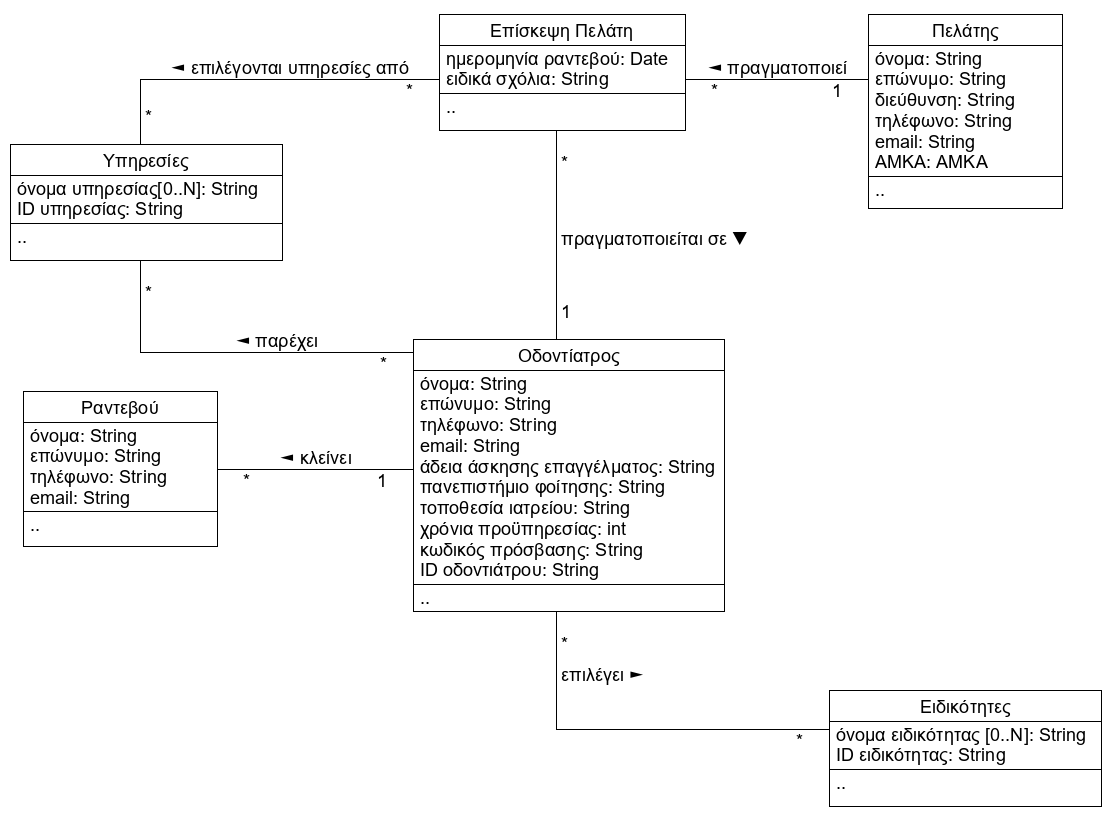
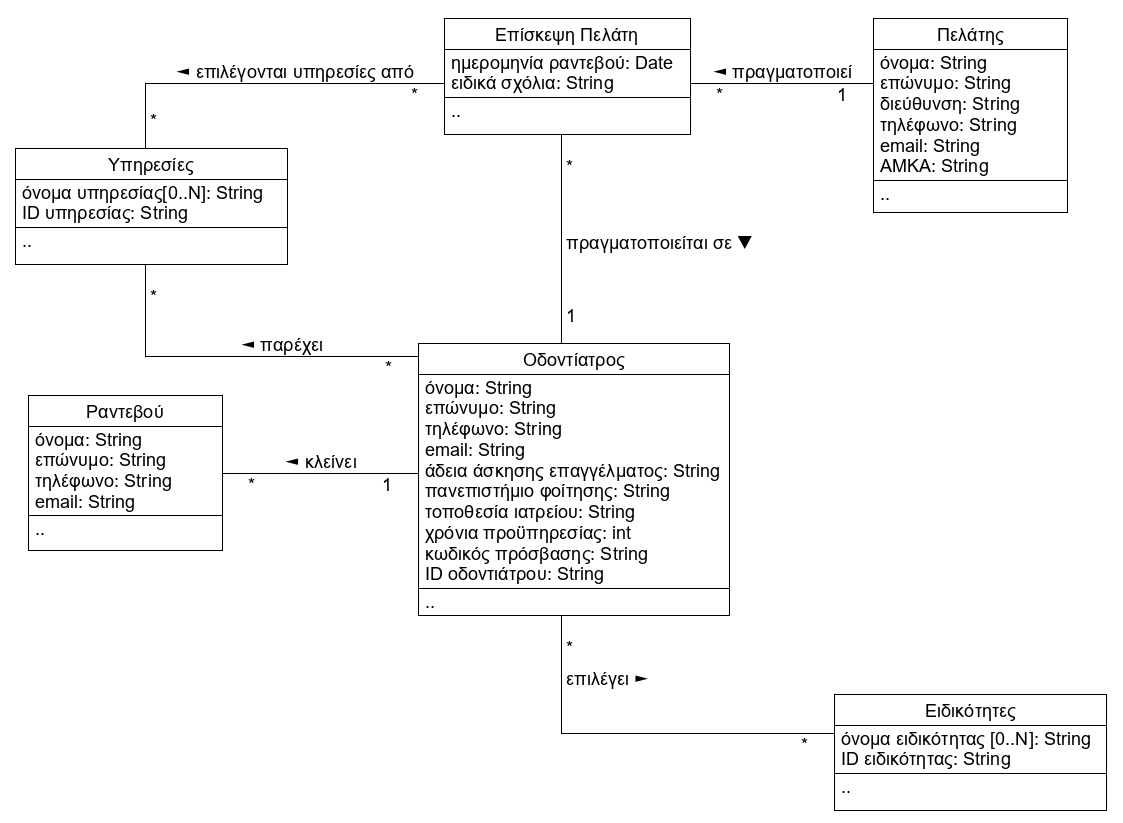
Created Android Studio Project

diff --git a/app/src/main/java/com/example/efarmoghgiaodontiatrous/Dentist.java b/app/src/main/java/com/example/efarmoghgiaodontiatrous/Dentist.java
@@ -4,15 +4,17 @@ import java.util.HashSet;
 import java.util.Set;
 
 public class Dentist {
-    private String firstName, lastName, telephoneNo, email, exerciseLicense, universityAttended, infirmaryLocation, password, dentistID;
+    private String firstName, lastName, telephoneNo, email, exerciseLicense, universityAttended, password, dentistID;
     private int timeOfExperience;
+    private Address infirmaryLocation;
     private Set<Specialization> specializations = new HashSet<>();
     private Set<Service> services = new HashSet<>();
+    private Set<Appointment> appointments = new HashSet<>();
 
     public Dentist() {
     }
 
-    public Dentist(String firstName, String lastName, String telephoneNo, String email, String exerciseLicense, String universityAttended, String infirmaryLocation, int timeOfExperience, String password, String dentistID) {
+    public Dentist(String firstName, String lastName, String telephoneNo, String email, String exerciseLicense, String universityAttended, Address infirmaryLocation, int timeOfExperience, String password, String dentistID) {
         this.firstName = firstName;
         this.lastName = lastName;
         this.telephoneNo = telephoneNo;
@@ -81,11 +83,11 @@ public class Dentist {
         this.universityAttended = universityAttended;
     }
 
-    public String getInfirmaryLocation() {
+    public Address getInfirmaryLocation() {
         return infirmaryLocation;
     }
 
-    public void setInfirmaryLocation(String infirmaryLocation) {
+    public void setInfirmaryLocation(Address infirmaryLocation) {
         this.infirmaryLocation = infirmaryLocation;
     }
 
@@ -113,6 +115,10 @@ public class Dentist {
         return new HashSet<>(services);
     }
 
+    public Set<Appointment> getAppointments() {
+        return new HashSet<>(appointments);
+    }
+
     public void addService(Service service) {
         if (service != null) {
             this.services.add(service);
@@ -134,6 +140,18 @@ public class Dentist {
     public void removeSpecialization(Specialization specialization) {
         if (specialization != null) {
             this.specializations.remove(specialization);
+        }
+    }
+
+    public void addAppointment(Appointment appointment) {
+        if(appointment != null){
+            this.appointments.add(appointment);
+        }
+    }
+
+    public void removeAppointment(Appointment appointment) {
+        if(appointment != null){
+            this.appointments.remove(appointment);
         }
     }
 }

diff --git a/app/src/main/java/com/example/efarmoghgiaodontiatrous/Address.java b/app/src/main/java/com/example/efarmoghgiaodontiatrous/Address.java
@@ -1,0 +1,89 @@
+package com.example.efarmoghgiaodontiatrous;
+
+public class Address {
+    private String street, number, city, country = "Greece";
+    private int zip;
+
+    public Address() {
+    }
+
+    public Address(Address address) {
+        this.street = address.getStreet();
+        this.number = address.getNumber();
+        this.city = address.getCity();
+        this.zip = address.getZipCode();
+        this.country = address.getCountry();
+    }
+
+    public void setStreet(String street) {
+        this.street = street;
+    }
+
+    public String getStreet() {
+        return street;
+    }
+
+    public void setNumber(String number) {
+        this.number = number;
+    }
+
+    public String getNumber() {
+        return number;
+    }
+
+    public void setCity(String city) {
+        this.city = city;
+    }
+
+
+    public String getCity() {
+        return city;
+    }
+
+    public void setZipCode(int zipcode) {
+        this.zip = zipcode;
+    }
+
+    public int getZipCode() {
+        return zip;
+    }
+
+    public void setCountry(String country) {
+        this.country = country;
+    }
+
+    public String getCountry() {
+        return country;
+    }
+
+    public boolean equals(Object other) {
+        if (other == null) {
+            return false;
+        }
+        if (this == other) {
+            return true;
+        }
+        if (!(other instanceof Address)) {
+            return false;
+        }
+
+        Address theAddress = (Address) other;
+        if (!(street == null ? theAddress.street == null : street.equals(theAddress.street))) {
+            return false;
+        }
+        if (!(number == null ? theAddress.number == null : number.equals(theAddress.number))) {
+            return false;
+        }
+        if (!(city == null ? theAddress.city == null : city.equals(theAddress.city))) {
+            return false;
+        }
+        if (!(zip == 0 ? theAddress.zip == 0 : zip == theAddress.zip)) {
+            return false;
+        }
+        if (!(country == null ? theAddress.country == null : country.equals(theAddress.country))) {
+            return false;
+        }
+        return true;
+    }
+
+}

diff --git a/app/src/main/java/com/example/efarmoghgiaodontiatrous/Visit.java b/app/src/main/java/com/example/efarmoghgiaodontiatrous/Visit.java
@@ -1,10 +1,26 @@
 package com.example.efarmoghgiaodontiatrous;
 
 import java.util.Date;
+import java.util.HashSet;
+import java.util.Set;
 
 public class Visit {
     private Date dateOfVisit;
     private String comments;
+    private Dentist dentist;
+    private Client client;
+    private Set<Service> services = new HashSet<>();
+
+    public Visit() {
+    }
+
+    public Visit(Date dateOfVisit, String comments, Dentist dentist, Client client, Set<Service> services) {
+        this.dateOfVisit = dateOfVisit;
+        this.comments = comments;
+        this.dentist = dentist;
+        this.client = client;
+        this.services = services;
+    }
 
     public Date getDateOfVisit() {
         return dateOfVisit;
@@ -20,5 +36,29 @@ public class Visit {
 
     public void setComments(String comments) {
         this.comments = comments;
+    }
+
+    public Dentist getDentist() {
+        return dentist;
+    }
+
+    public void setDentist(Dentist dentist) {
+        this.dentist = dentist;
+    }
+
+    public Client getClient() {
+        return client;
+    }
+
+    public void setClient(Client client) {
+        this.client = client;
+    }
+
+    public Set<Service> getServices() {
+        return new HashSet<>(services);
+    }
+
+    public void setServices(Set<Service> services) {
+        this.services = services;
     }
 }

diff --git a/app/src/main/java/com/example/efarmoghgiaodontiatrous/Appointment.java b/app/src/main/java/com/example/efarmoghgiaodontiatrous/Appointment.java
@@ -1,9 +1,29 @@
 package com.example.efarmoghgiaodontiatrous;
 
 public class Appointment {
-    Dentist dentist;
-
     private String firstName, lastName, telephoneNo, email;
+    private AppointmentState state;
+    private Dentist dentist;
+
+    public Appointment() {
+    }
+
+    public Appointment(String firstName, String lastName, String telephoneNo, String email, AppointmentState state, Dentist dentist) {
+        this.firstName = firstName;
+        this.lastName = lastName;
+        this.telephoneNo = telephoneNo;
+        this.email = email;
+        this.state = state;
+        this.dentist = dentist;
+    }
+
+    public Dentist getDentist() {
+        return dentist;
+    }
+
+    public void setDentist(Dentist dentist) {
+        this.dentist = dentist;
+    }
 
     public String getFirstName() {
         return firstName;
@@ -35,5 +55,13 @@ public class Appointment {
 
     public void setEmail(String email) {
         this.email = email;
+    }
+
+    public AppointmentState getState() {
+        return state;
+    }
+
+    public void setState(AppointmentState state) {
+        this.state = state;
     }
 }

diff --git a/app/src/main/java/com/example/efarmoghgiaodontiatrous/Client.java b/app/src/main/java/com/example/efarmoghgiaodontiatrous/Client.java
@@ -1,7 +1,18 @@
 package com.example.efarmoghgiaodontiatrous;
 
 public class Client {
-    private String firstName, lastName, address, telephoneNo, email, AMKA;
+    private String firstName, lastName, telephoneNo, email, AMKA;
+
+    public Client() {
+    }
+
+    public Client(String firstName, String lastName, String telephoneNo, String email, String AMKA) {
+        this.firstName = firstName;
+        this.lastName = lastName;
+        this.telephoneNo = telephoneNo;
+        this.email = email;
+        this.AMKA = AMKA;
+    }
 
     public String getFirstName() {
         return firstName;
@@ -17,14 +28,6 @@ public class Client {
 
     public void setLastName(String lastName) {
         this.lastName = lastName;
-    }
-
-    public String getAddress() {
-        return address;
-    }
-
-    public void setAddress(String address) {
-        this.address = address;
     }
 
     public String getTelephoneNo() {

diff --git a/app/src/main/java/com/example/efarmoghgiaodontiatrous/Specialization.java b/app/src/main/java/com/example/efarmoghgiaodontiatrous/Specialization.java
@@ -3,6 +3,14 @@ package com.example.efarmoghgiaodontiatrous;
 public class Specialization {
     private String specializationName, specializationID;
 
+    public Specialization() {
+    }
+
+    public Specialization(String specializationName, String specializationID) {
+        this.specializationName = specializationName;
+        this.specializationID = specializationID;
+    }
+
     public String getSpecializationName() {
         return specializationName;
     }

diff --git a/app/src/main/java/com/example/efarmoghgiaodontiatrous/Service.java b/app/src/main/java/com/example/efarmoghgiaodontiatrous/Service.java
@@ -3,6 +3,14 @@ package com.example.efarmoghgiaodontiatrous;
 public class Service {
     private String serviceName, serviceID;
 
+    public Service() {
+    }
+
+    public Service(String serviceName, String serviceID) {
+        this.serviceName = serviceName;
+        this.serviceID = serviceID;
+    }
+
     public String getServiceName() {
         return serviceName;
     }

diff --git a/app/src/main/java/com/example/efarmoghgiaodontiatrous/AppointmentState.java b/app/src/main/java/com/example/efarmoghgiaodontiatrous/AppointmentState.java
@@ -1,0 +1,18 @@
+package com.example.efarmoghgiaodontiatrous;
+
+public enum AppointmentState {
+    /**
+     * Appointment has yet to be accepted or declined by the Dentist.
+     */
+    PENDING,
+
+    /**
+     * Appointment was accepted by the Dentist.
+     */
+    ACCEPTED,
+
+    /**
+     * Appointment was declined by the Dentist.
+     */
+    DECLINED
+}
